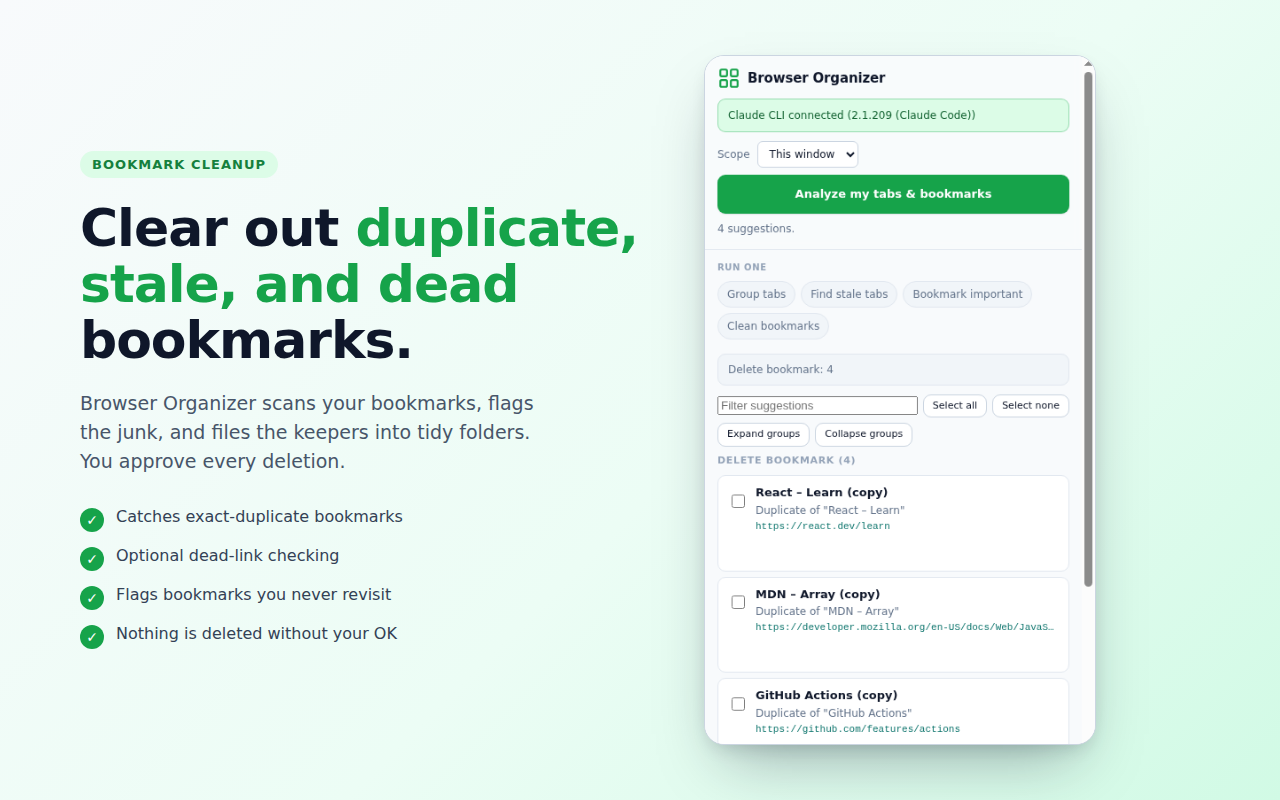
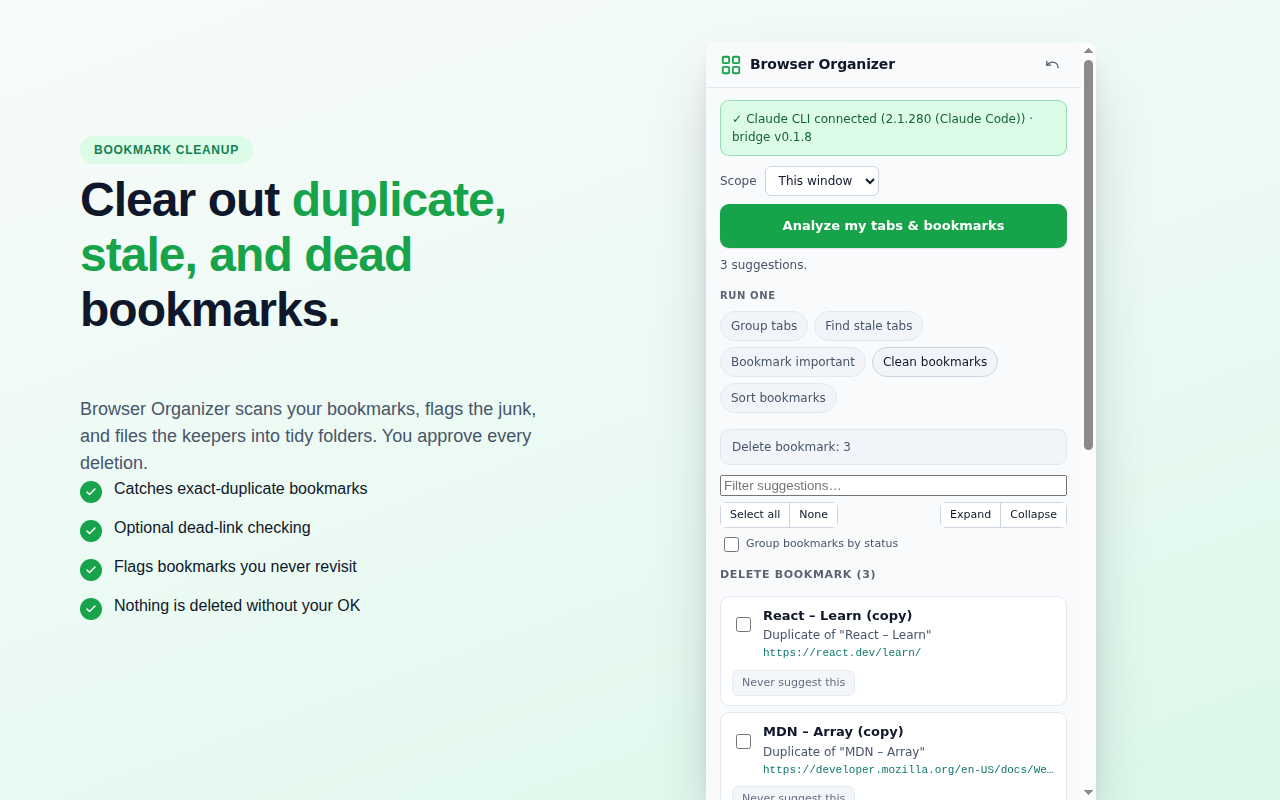
docs: fix Web Store readiness gaps (privacy policy accuracy, stale docs/screenshots) (#38)
Found during a Chrome Web Store readiness review:

- docs/privacy.html claimed settings "lives in the browser's local storage...
  and is never synced off it" — false. extension/lib/storage.js saves settings
  via chrome.storage.sync (protectedFolders, whitelist domains, adapter choice,
  custom OpenAI endpoint included), which syncs through Google's Chrome Sync
  infrastructure like any other browser setting. Corrected the policy to
  accurately distinguish synced settings from the genuinely local-only data
  (tab-activity, undo log, encrypted API key). Confirmed via WebFetch that the
  incorrect wording was live on the deployed page; this file needs redeploying
  to https://lusk.dev/browser-organizer/privacy to take effect (outside this
  repo's control).
- docs/CHROMEWEBSTORE.md was five releases stale (dated 2026-07-14, version
  history stopped at 0.1.0 against a current 0.1.8). Added version-history
  entries through 0.1.8, bumped the date, corrected the `storage` permission
  justification and added a data-safety-form note for the same sync-disclosure
  issue, and marked the screenshot/privacy-deployment checklist items done
  (verified, not just assumed).
- docs/screenshots/*.png were captured in July against an older UI (shortened
  button labels, an added undo icon, and the current version banner format all
  postdate them). Recaptured all three from the live extension in a real
  Chrome-for-Testing session, matching each original's demo scenario and
[…]

diff --git a/docs/privacy.html b/docs/privacy.html
@@ -14,7 +14,7 @@
 </head>
 <body>
   <h1>Privacy Policy — Browser Organizer</h1>
-  <p class="muted">Last updated: 2026-07-14</p>
+  <p class="muted">Last updated: 2026-09-23</p>
 
   <p>Browser Organizer runs a helper program on your own computer, which invokes your
   locally-installed AI CLI (Claude Code, Antigravity, Kiro, Copilot, Codex, or local Ollama)
@@ -39,9 +39,14 @@
   machine and are never sent anywhere.</p>
 
   <h2>What we store</h2>
-  <p>Your settings, tab-activity timestamps, an undo log, and — if you use the
-  OpenAI-compatible API backend — your API key <strong>encrypted at rest</strong> (AES-GCM).
-  All of this lives in the browser’s local storage on your device and is never synced off it.</p>
+  <p>Your settings (which features are on, your protected folders/domains, and your chosen AI
+  backend) are saved using Chrome's built-in synced storage, so they follow you to your other
+  signed-in Chrome browsers the same way your bookmarks or browser preferences do — this data
+  passes through Google's Chrome Sync infrastructure, not through us. Tab-activity timestamps,
+  the undo log, and — if you use the OpenAI-compatible API backend — your API key
+  <strong>encrypted at rest</strong> (AES-GCM) are kept in local storage only and are never
+  synced anywhere. None of it is ever sent to the extension developer; we operate no server
+  that stores it.</p>
 
   <h2>What we never do</h2>
   <p>Sell data, run analytics, or transmit your data to the developer.</p>

diff --git a/docs/CHROMEWEBSTORE.md b/docs/CHROMEWEBSTORE.md
@@ -1,6 +1,6 @@
 # Chrome Web Store / Edge Add-ons Listing — Browser Organizer
 
-_Last updated: 2026-07-14_
+_Last updated: 2026-09-23_
 
 **Publisher:** Lusk Technologies · **Website:** https://lusk.tech ·
 **Privacy policy:** https://lusk.dev/browser-organizer/privacy · **Contact:** hello@lusk.dev
@@ -28,7 +28,8 @@ ever sent to our servers — we operate none.
 - **tabGroups**: Create and label tab groups when organizing open tabs in place.
 - **bookmarks**: Read your bookmarks to find duplicates/stale entries and create new ones.
 - **history**: Check when a bookmarked page was last visited, to identify stale bookmarks.
-- **storage**: Save your settings, tab-activity timestamps, and the undo log locally.
+- **storage**: Save your settings (synced via Chrome's own account sync), plus tab-activity
+  timestamps and the undo log (kept local-only).
 - **alarms**: Run scheduled organization passes and prune the undo log in auto mode.
 - **sidePanel**: Show the review dashboard where you approve suggested changes.
 - **nativeMessaging**: Communicate with the local helper that runs your AI CLI (see reviewer note).
@@ -48,6 +49,12 @@ Tab titles and URLs (query strings/fragments stripped, private/loopback hosts co
 origin, embedded credentials removed) are sent to your AI provider under your own
 subscription, via your local helper. Bookmarks and history are never sent anywhere. No data
 ever reaches the extension developer's servers; we operate none.
+
+**Data-safety form note:** settings (feature toggles, protected folders/domains, chosen AI
+backend) are stored via `chrome.storage.sync`, so check whatever box the dashboard's data-use
+questionnaire uses for data synced through the browser's own account sync — this is Chrome
+Sync, not a developer-operated server. Tab-activity timestamps, the undo log, and the
+(encrypted) OpenAI-compatible API key use `chrome.storage.local` and are never synced.
 
 ## Notes for reviewers (IMPORTANT — read before testing)
 This extension is the front-end for a **local companion helper** ("native messaging host")
@@ -72,6 +79,23 @@ Key safety facts:
   builds — please keep the assigned ID stable.
 
 ## Version history
+- **0.1.8** (2026-09-22) — UX/UI refresh and accessibility enhancements (WCAG 2.1 AA); native
+  host packaged for npm.
+- **0.1.7** (2026-09-20) — Reliability/bug-fix release addressing 11 findings from a systematic
+  codebase audit across the extension and native host.
+- **0.1.6-beta** (2026-08-27) — Security/code audit across the extension and native host
+  (stale-plan protections re-validated at apply time, CLI-adapter sandbox hardening,
+  message-sender validation, permission cleanup), plus a side-panel UX pass.
+- **0.1.5** (2026-07-19) — Native-host security hardening (per-adapter flag allowlist, OpenAI
+  SSRF fix, host crash-hardening) and an extension-only `prompt` passthrough extensibility path.
+- **0.1.4** (2026-07-19) — Organize fixes for Edge (non-Chrome root bookmark folder ids) plus
+  Advanced settings (CLI control, debug logging).
+- **0.1.3** (2026-07-16) — The connection banner now shows the installed native-host bridge
+  version alongside the CLI version, so a stale helper install is visible at a glance.
+- **0.1.2** (2026-07-16) — Organize bookmarks into folders (AI-driven), plus bookmark-cleanup
+  status grouping.
+- **0.1.1** (2026-07-15) — Host package fixes: Windows `npx` install now registers the native
+  host (was silently unregistered); corrected npm package metadata.
 - **0.1.0** (2026-07-11) — Initial submission. Tab grouping, stale-tab detection, bookmark
   cleanup (duplicate/stale/dead-link), auto-bookmarking, per-window scope, natural-language
   commands, sessions, scheduled auto-mode with undo. Six CLI backends + OpenAI-compatible API.
@@ -79,10 +103,11 @@ Key safety facts:
 ## Store assets still required (not in this repo)
 - [x] Real 16/48/128 px icons in `extension/icons/` and referenced in manifest (`npm run icons`)
 - [x] Upload zip built from `extension/` only (`npm run package` → `dist/`)
-- [ ] Store icon shown on the listing page (128×128 — reuse `icons/icon-128.png`)
-- [ ] At least one screenshot at 1280×800 or 640×400 (side panel with suggestions)
-- [ ] Deploy `docs/privacy.html` to https://lusk.dev/browser-organizer/privacy; enter it +
-      hello@lusk.dev in the store, and fill the data-use form
+- [x] Store icon shown on the listing page (128×128 — reuse `icons/icon-128.png`)
+- [x] At least one screenshot at 1280×800 (`docs/screenshots/` — overview, bookmark-cleanup,
+      settings; refreshed 2026-09-23 against the current UI)
+- [x] Deploy `docs/privacy.html` to https://lusk.dev/browser-organizer/privacy — live, verified
+      2026-09-23. Enter it + hello@lusk.dev in the store, and fill the data-use form.
 - [ ] Chrome Web Store developer account ($5 one-time) / Edge Partner Center account (free)
 - [ ] After first publish, confirm the store-assigned extension ID matches the `key`-derived ID
       so the native host `allowed_origins` remains correct
